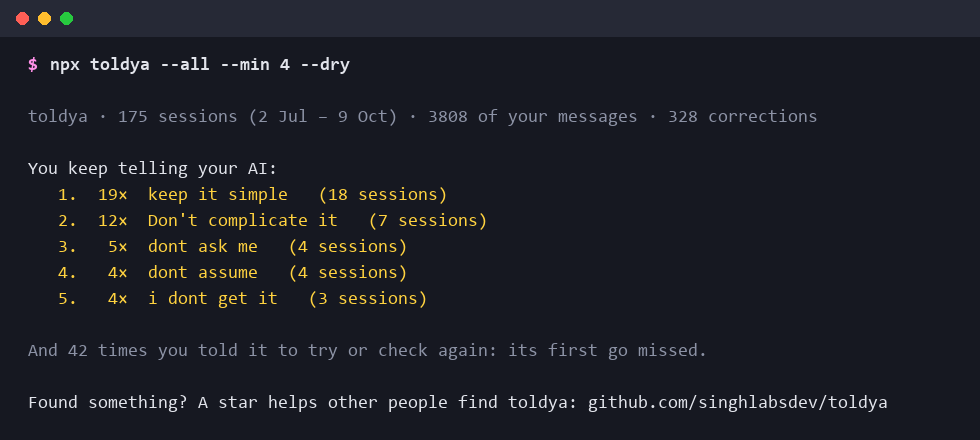
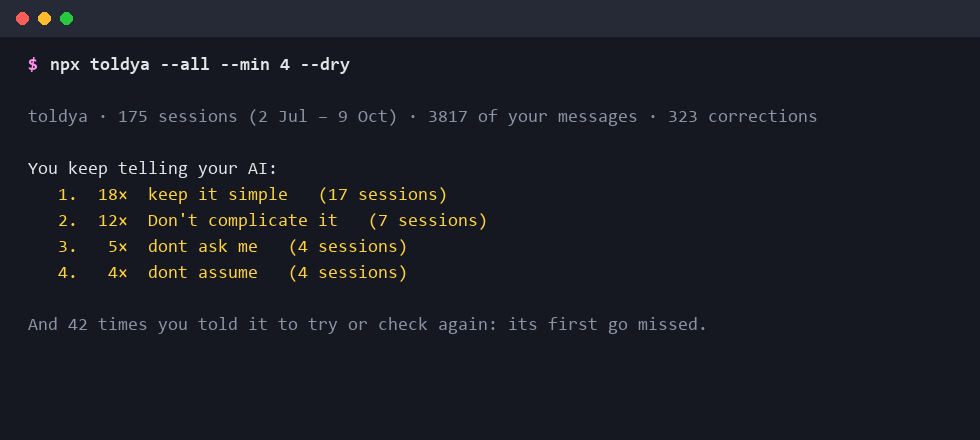
README: recount with 0.3.5, "keep it simple" 18 times, not 19
The report, demo and card are fresh runs of 0.3.5 on the same history
(2 Jul - 9 Oct). "I don't get it" sentences are now skipped as being lost,
which takes one out of the habit (18 in 17 sessions) and drops "i dont get
it" from the top five, so --min 4 now shows four lines. The demo still
picks 1,2,4: Keep it simple, Don't complicate it, Dont assume. No star line
in the report.

diff --git a/README.md b/README.md
@@ -28,9 +28,9 @@ it counts whether you still had to say it.
 
 A real run. Not a mock-up.
 
-<p align="center"><img src="assets/report.png" width="100%" alt="toldya report: keep it simple 19 times in 18 sessions, Don't complicate it 12 times, dont ask me 5 times, and 42 times it was told to try or check again"></p>
+<p align="center"><img src="assets/report.png" width="100%" alt="toldya report: keep it simple 18 times in 17 sessions, Don't complicate it 12 times, dont ask me 5 times, and 42 times it was told to try or check again"></p>
 
-175 sessions. "Keep it simple" 19 times. Rewordings and typos count as one habit: "Don't
+175 sessions. "Keep it simple" 18 times. Rewordings and typos count as one habit: "Don't
 complicate it" and "dont complex this" are the same thing said twice.
 
 ## Use it
@@ -71,7 +71,7 @@ drawn on your machine; nothing leaves it unless you click share.
 
 Post yours in [Share your card](https://github.com/singhlabsdev/toldya/discussions/1). What's your top line?
 
-<p align="center"><img src="assets/card.png" width="100%" alt="toldya card: I have told my AI keep it simple 19 times. Also: Don't complicate it 12, dont ask me 5, dont assume 4"></p>
+<p align="center"><img src="assets/card.png" width="100%" alt="toldya card: I have told my AI keep it simple 18 times. Also: Don't complicate it 12, dont ask me 5, dont assume 4"></p>
 
 ## What it reads, and what it doesn't
 
